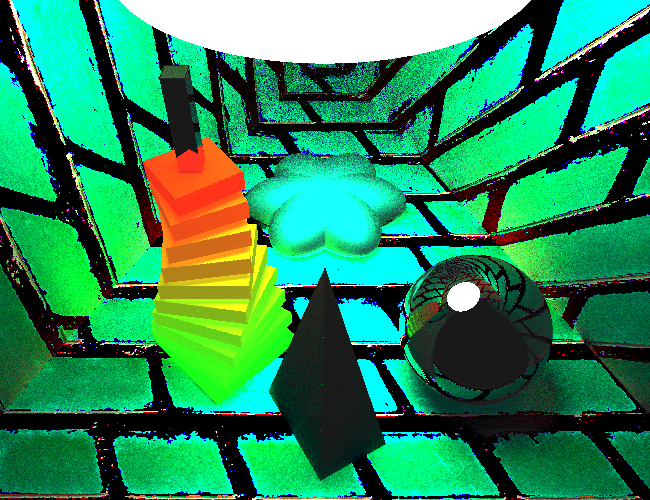
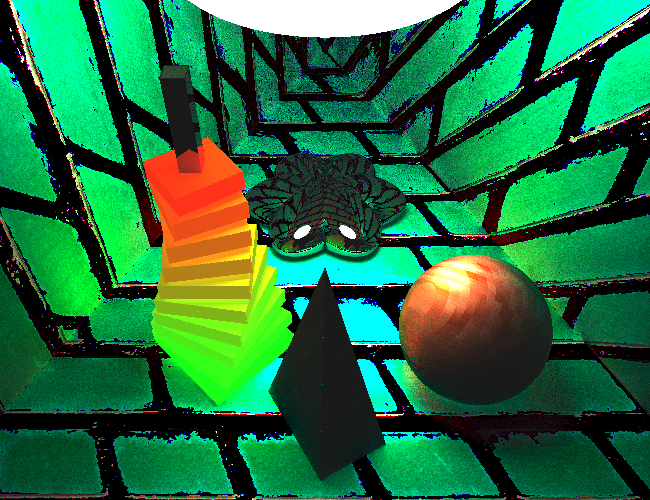
Update image_3.jpg

diff --git a/src/lib_scene.cpp b/src/lib_scene.cpp
@@ -219,10 +219,10 @@ Scene* create_scene_2() {
 
   material = new Material(
     glm::vec4(0.1, 0.1, 0.1, 1),
-    glm::vec4(0, 1, 1, 1),
+    glm::vec4(0, 0, 0, 1),
+    glm::vec4(0.3, 0.3, 0.3, 1),
     glm::vec4(0, 0, 0, 1),
     glm::vec4(0, 0, 0, 1),
-    glm::vec4(.25, .5, .5, 1),
     50, plain_texture
   );
   for (unsigned int i = 0; i < 3; i++) {
@@ -279,14 +279,6 @@ Scene* create_scene_2() {
   );
   add_to_geom_array(geom_array, additional_geom_array);
 
-  material = new Material(
-    glm::vec4(0.1, 0.1, 0.1, 1),
-    glm::vec4(0, 0, 0, 1),
-    glm::vec4(0.3, 0.3, 0.3, 1),
-    glm::vec4(0, 0, 0, 1),
-    glm::vec4(0, 0, 0, 1),
-    50, plain_texture
-  );
   trans_matrix = translate(4, -5, 2);
   geom_array.push_back(new Sphere());
   parameter_array = prepare_sphere_parameters(

diff --git a/src/main_path_tracing.cpp b/src/main_path_tracing.cpp
@@ -21,7 +21,7 @@ int main() {
 
   Scene* my_scene = create_scene_2();
 
-  pathtrace_parallel(my_scene, 8, 1, 1024);
+  pathtrace_parallel(my_scene, 8, 1, 2048);
 
   auto t1 = Time::now();
   fsec fs = t1 - t0;
